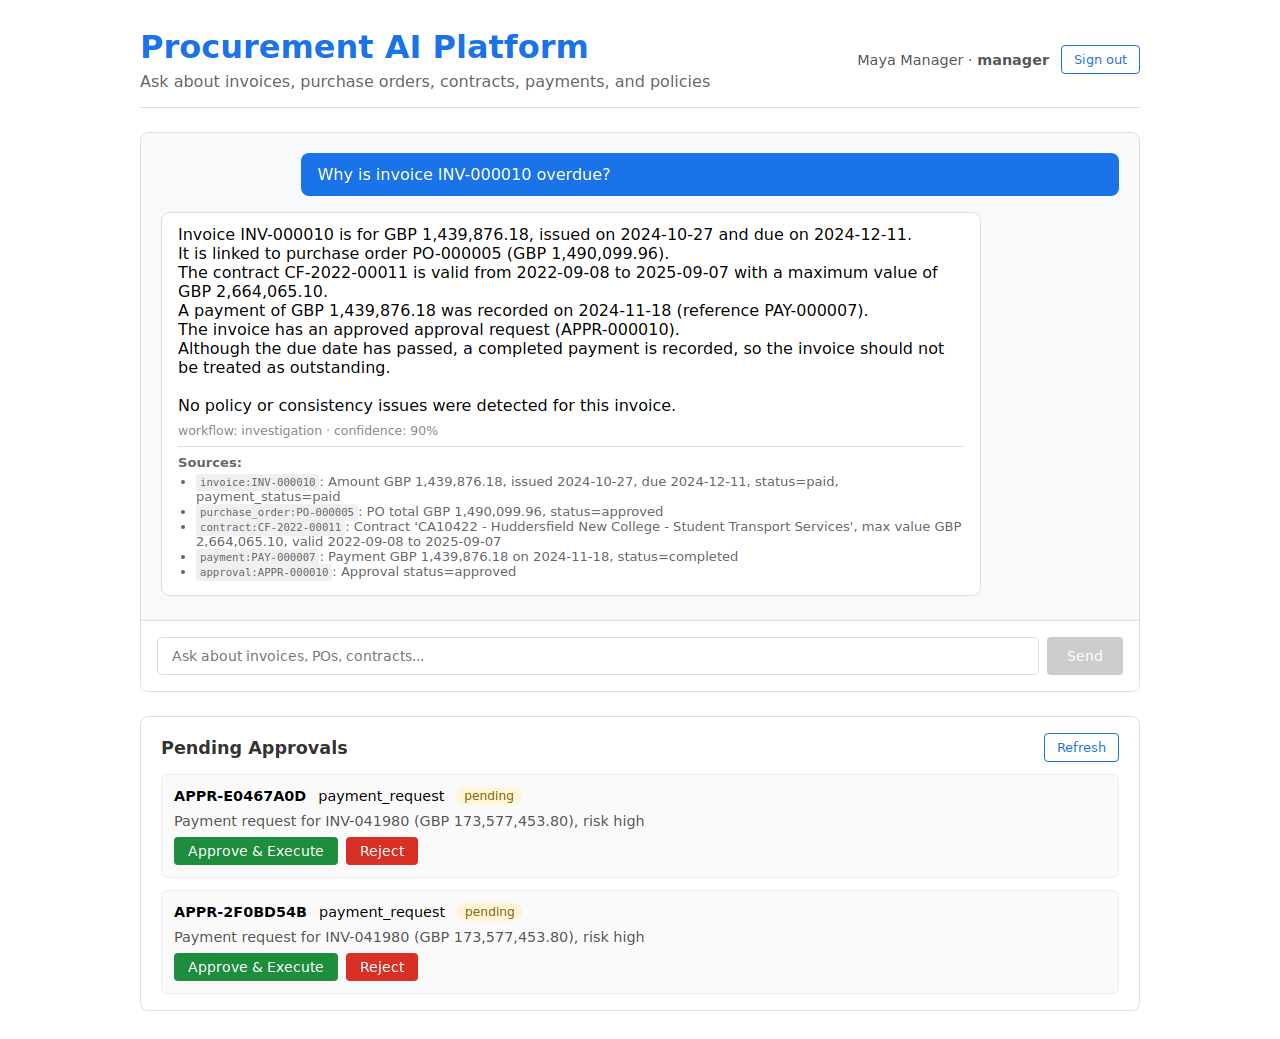
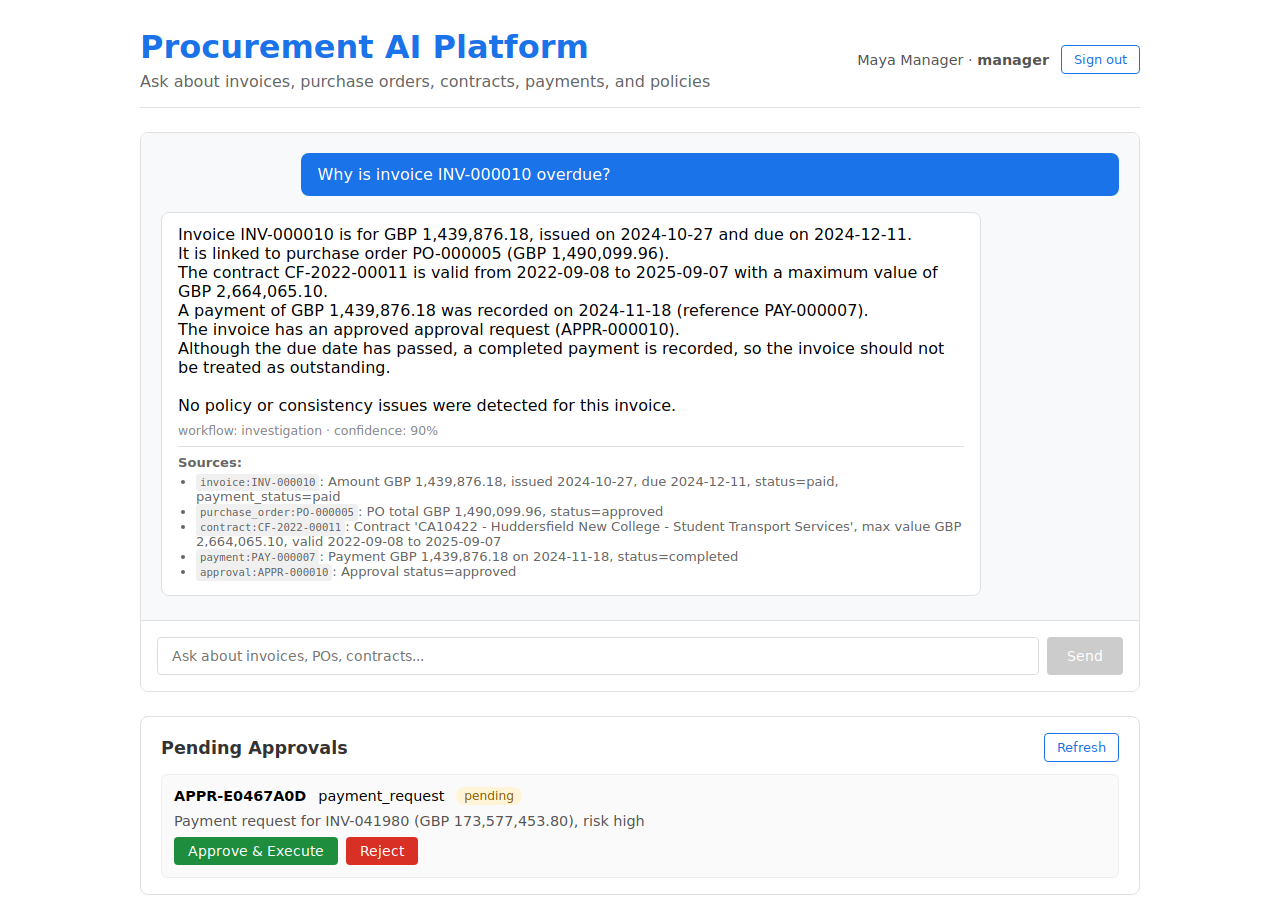
Add verified Docker stack and Grafana dashboard.

diff --git a/README.md b/README.md
@@ -16,11 +16,17 @@ Approve & Execute / Reject controls:
 
 ![Pending approvals](docs/assets/approvals-panel.png)
 
-Regenerate screenshots with the frontend running on `:3000`:
+**Observability** — provisioned Grafana dashboard showing request rate, workflow
+routes, node/planner latency, tokens, tool calls, approvals, and anomalies:
+
+![Grafana dashboard](docs/assets/grafana-dashboard.png)
+
+Regenerate screenshots with the stack running:
 
 ```bash
 cd frontend
-node capture_screenshots.mjs ../docs/assets
+node capture_screenshots.mjs ../docs/assets   # UI
+node capture_grafana.mjs ../docs/assets       # Grafana (:3001)
 ```
 
 ## Project Status
@@ -49,8 +55,9 @@ node capture_screenshots.mjs ../docs/assets
 | Prometheus metrics endpoint | ✅ Complete |
 | Authentication (JWT) + role-based access control | ✅ Complete |
 | Frontend login + chat + approvals panel | ✅ Complete (production build verified) |
+| Full Docker Compose stack (6 services) | ✅ Verified: API, UI, MCP, Prometheus, Grafana |
 | LLM narrative layer | ⚙ Optional (disabled by default) |
-| MCP server | ✅ stdio + streamable HTTP (:8001); API uses the shared mock ERP service |
+| MCP server | ✅ stdio + streamable HTTP (:8001), tool calls verified |
 
 ---
 
@@ -131,6 +138,10 @@ docker compose up --build -d
 Grafana is provisioned automatically with the Prometheus datasource and the
 **Procurement AI Platform** dashboard (request rate, workflow routes, node and
 planner latency, tokens, tool calls, approvals, anomalies).
+
+Verified in the full stack: API health, JWT login and planner-routed chat,
+frontend through nginx, MCP `list_tools` and `create_payment_request` over HTTP,
+Prometheus targets `up`, and all 10 Grafana panels populated.
 
 The container images install the full ML dependency set (including local
 embeddings), so the first build downloads several GB and can take a while.
